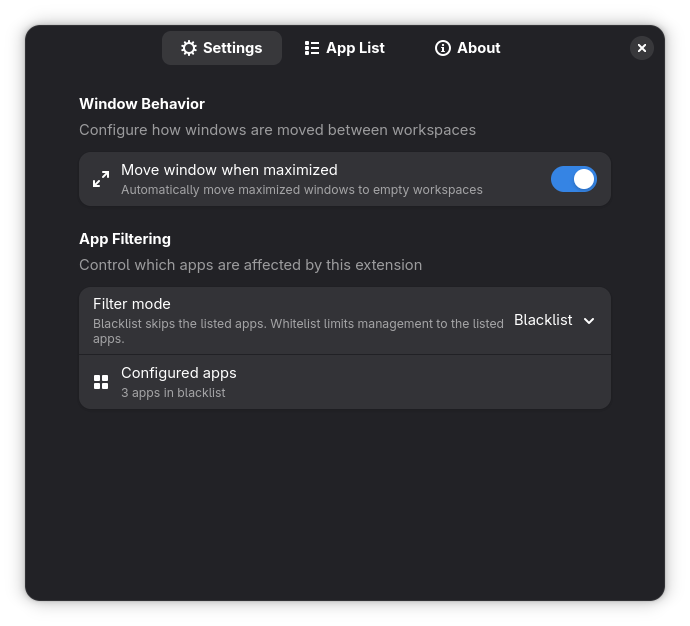
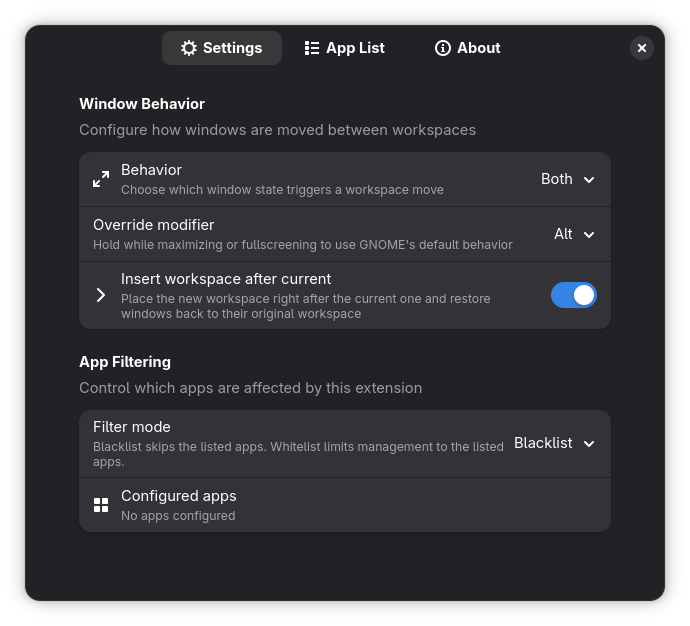
feat: update README and screenshots to reflect new configurable trigger behaviors and focus preservation

diff --git a/README.md b/README.md
@@ -11,7 +11,11 @@ A GNOME Shell extension that automatically moves maximized and fullscreen window
 
 ### Core Functionality
 - **Automatic workspace isolation** — Maximized and fullscreen windows move to empty workspaces, one window per space
+- **Configurable trigger behavior** — Choose whether maximize, fullscreen, or both trigger workspace isolation via dropdown selector
+- **Override modifier key** — Hold Alt/Super/Ctrl/Shift while maximizing/fullscreening to bypass ScreenToSpace and use GNOME's default behavior
+- **Flexible workspace placement** — Insert new workspace after current (with restore to original) or use the last empty workspace
 - **Smart workspace reordering** — Minimized disruption to existing window layout when creating or destroying isolated workspaces
+- **Focus preservation** — Moved/restored windows automatically gain focus and raise to prevent being hidden behind other windows
 - **Multi-monitor aware** — Respects GNOME's "workspaces on primary display only" setting; handles per-monitor workspace assignment correctly
 
 ### Application Filtering
@@ -98,7 +102,12 @@ gnome-extensions prefs screentospace@dilzhan.dev
 ### Settings Tab
 
 **Window Behavior**
-- *Move window when maximized* — Enable or disable automatic workspace isolation for maximized windows (fullscreen always triggers isolation regardless of this setting)
+- *Behavior* — Dropdown to choose trigger mode:
+  - **Maximized** — Only maximized windows trigger workspace isolation
+  - **Full Screen** — Only fullscreen windows trigger workspace isolation
+  - **Both** (default) — Both maximized and fullscreen windows trigger workspace isolation
+- *Override modifier* — Choose a modifier key (None/Alt/Super/Ctrl/Shift) that, when held during maximize/fullscreen, bypasses ScreenToSpace and uses GNOME's default behavior
+- *Insert workspace after current* — When enabled, places the new workspace immediately after the current one (instead of at the end) and restores windows back to their exact original workspace. When disabled, uses the last empty workspace with smart reordering
 
 **App Filtering**
 - *Filter mode* — Choose **Blacklist** (ignore listed apps) or **Whitelist** (manage only listed apps)
@@ -128,16 +137,22 @@ Extension metadata: name, author, version, repository link
 
 **Placement (window enters maximized/fullscreen state):**
 1. Extension detects size-change signal from window manager
-2. `WindowFilter` checks if window qualifies: normal window type, matches app filter rules, entering maximize/fullscreen state
-3. `WorkspaceManager` scans for first empty workspace on the same monitor
-4. `WindowPlacementHandler` reorders workspaces (swaps empty workspace to current position, moves current to empty's former position)
-5. Other windows on the original workspace stay put; newly isolated window moves to the former-empty workspace
+2. Check if override modifier is pressed; if so, bypass ScreenToSpace (GNOME default behavior)
+3. `WindowFilter` checks if window qualifies: normal window type, matches app filter rules, matches configured trigger behavior (maximize/fullscreen/both)
+4. `WorkspaceManager` scans for empty workspace on the same monitor
+5. `WindowPlacementHandler` places window using configured mode:
+   - **Insert after current mode**: Takes the last completely empty workspace, reorders it to position after current workspace, moves only the isolated window there, stores reference to original workspace
+   - **Reorder mode** (default): Swaps empty workspace with current workspace, other windows stay in place, stores reference to home workspace
+6. Window is explicitly focused and raised to ensure visibility
 
 **Return (window exits maximized/fullscreen state):**
 1. Extension detects size-change signal indicating unmaximize/unfullscreen
-2. If the now-normal window is alone on its workspace, find the last occupied workspace (scan backwards from current index, then forwards)
-3. Reorder: swap current workspace back to the occupied workspace's position
-4. Window effectively "returns" to a workspace with other windows
+2. Retrieve stored workspace reference (original/home workspace)
+3. `WindowPlacementHandler` restores window using identity-based lookup:
+   - If the stored workspace still exists (verified by object identity), move window back to it
+   - If the workspace was removed (dynamic workspaces), fall back to existing restore heuristic (last occupied / nearest workspace)
+4. Window is explicitly focused and raised to prevent being hidden behind other windows
+5. Workspace is activated so user follows the restored window
 
 ### App filtering details
 
@@ -173,10 +188,10 @@ src/
 ```
 
 **Key modules:**
-- `WindowFilter` — `isManagedWindow(window)` combines type check + app filter logic; app ID normalization and blacklist/whitelist evaluation happen here
-- `WindowPlacementHandler` — `placeWindowOnWorkspace(window)`, `returnWindowToOldWorkspace(window)` encapsulate the workspace swap operations
-- `WorkspaceManager` — `getFirstFreeWorkspace(manager, monitor)`, `getLastOccupiedWorkspace(manager, currentIndex, monitor)` abstract workspace discovery
-- `WindowEventHandler` — Bridges window manager signals (`map`, `size-change`, `minimize`, etc.) to placement/filter logic; tracks pending actions between `size-change` and `size-changed` signals
+- `WindowFilter` — `isManagedWindow(window)` combines type check + app filter logic; `shouldPlaceOnSizeChange(window, change)` checks maximize/fullscreen triggers independently; app ID normalization and blacklist/whitelist evaluation happen here
+- `WindowPlacementHandler` — `placeWindowOnWorkspace(window)`, `returnWindowToOldWorkspace(window)` encapsulate workspace operations; supports both reorder mode and insert-after-current mode; stores workspace references for identity-based restore; handles focus/raise after moves
+- `WorkspaceManager` — `getFirstFreeWorkspace(manager, monitor)`, `getLastOccupiedWorkspace(manager, currentIndex, monitor)`, `getLastCompletelyEmptyWorkspace(manager)` abstract workspace discovery
+- `WindowEventHandler` — Bridges window manager signals (`map`, `size-change`, `minimize`, etc.) to placement/filter logic; checks override modifier state; tracks pending actions between `size-change` and `size-changed` signals
 
 ---
 
@@ -207,9 +222,10 @@ glib-compile-schemas ~/.local/share/gnome-shell/extensions/screentospace@dilzhan
 ### Windows not moving
 
 1. Verify extension is enabled: `gnome-extensions list | grep screentospace`
-2. Check "Move window when maximized" is enabled in preferences
-3. If using whitelist mode, ensure target app is in the whitelist
-4. Confirm GNOME dynamic workspaces are enabled (Settings → Multitasking → Workspaces)
+2. Check "Behavior" dropdown is set correctly (not disabled for the window state you're testing)
+3. Ensure you're not holding the override modifier key while maximizing/fullscreening
+4. If using whitelist mode, ensure target app is in the whitelist
+5. Confirm GNOME dynamic workspaces are enabled (Settings → Multitasking → Workspaces)
 
 ### App not appearing in blacklist/whitelist
 
@@ -299,6 +315,15 @@ Support: [buymeacoffee.com/dilzhan](https://buymeacoffee.com/dilzhan)
 ---
 
 ## Changelog
+
+**v9** (2025-12-28)
+- **Behavior dropdown**: Configure maximize/fullscreen triggers independently (Maximized, Full Screen, or Both)
+- **Override modifier**: Hold Alt/Super/Ctrl/Shift while maximizing/fullscreening to bypass ScreenToSpace
+- **Insert workspace after current**: Optional mode to place new workspace right after current (with restore to exact original workspace)
+- **Unified restore behavior**: Always returns to original workspace if it exists, with fallback to last occupied/nearest
+- **Focus preservation**: Moved/restored windows are explicitly focused and raised to prevent being hidden
+- **Identity-based workspace tracking**: Robust handling of dynamic workspace removal
+- **One-time settings migration**: Automatic upgrade from legacy single toggle to new separate triggers
 
 **v8** (2025-12-24)
 - Added per-application blacklist/whitelist filtering
